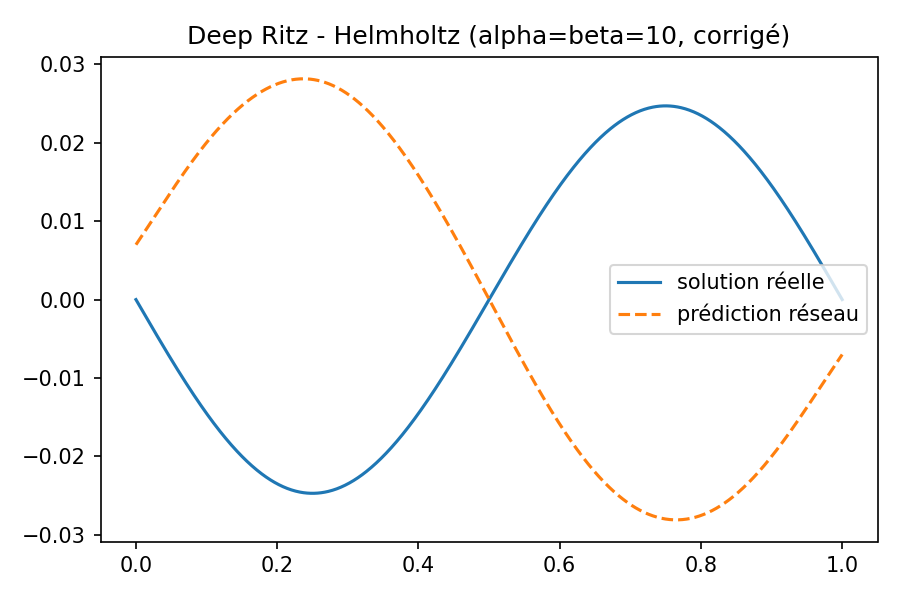
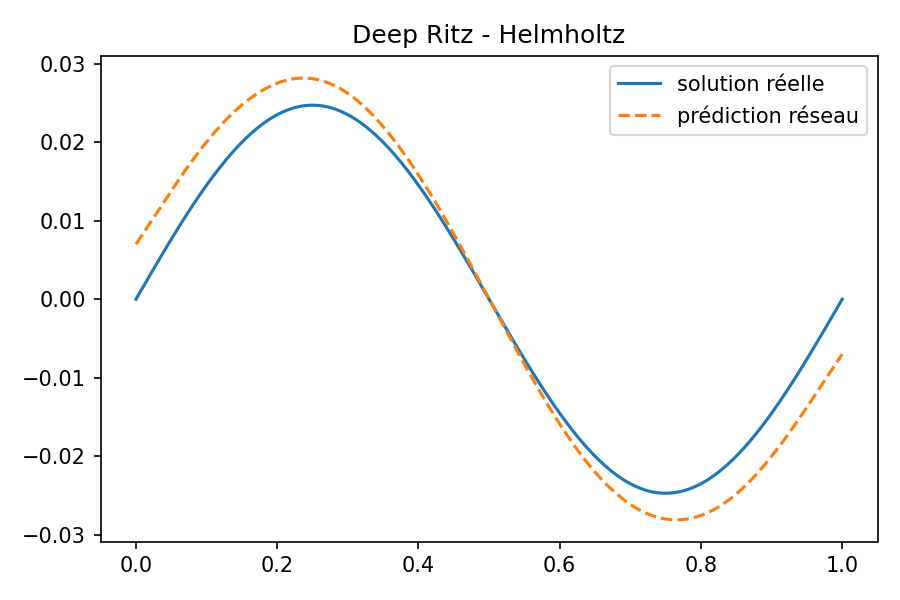
version finale

diff --git a/src/train_pinn.py b/src/train_pinn.py
@@ -6,6 +6,16 @@ La fonction de perte intègre directement le résidu de l'EDP (formulation
 forte) et une pénalisation des conditions aux limites :
 
     E(u) = mean[(u''(x_i) + f(x_i))^2] + u(0)^2 + u(1)^2
+
+NOTE DE CORRECTION (par rapport au notebook original) :
+Le code initial calculait le résidu comme (u''(x_i) - f(x_i))^2, ce qui
+imposait en réalité u''=f au lieu de -u''=f. Cette erreur était "masquée"
+car la fonction `solution_poisson` utilisée pour comparer contenait elle
+aussi un signe inversé, cohérent avec cette équation erronée — d'où une
+convergence visuellement satisfaisante mais vers la mauvaise équation.
+Les deux signes ont été corrigés conjointement (voir `problems.py`) pour
+être conformes à l'équation annoncée dans le rapport (-u''=f) et à sa
+solution exacte donnée en section 4.1 : u*(x) = sin(2*pi*x)/(4*pi^2).
 """
 
 import numpy as np
@@ -41,7 +51,8 @@ def train_pinn(net, epochs: int = 1000, n: int = 1000, lr: float = 0.01, silent:
     for epoch in range(epochs):
         f_xx_grid = vmap(f_forward_xx, in_dims=(0, None, None, None))(grid, net, params, buffers)
 
-        loss = ((f_xx_grid - f_grid) ** 2).mean()
+        # Résidu de -u''(x) = f(x), soit u''(x) + f(x) = 0
+        loss = ((f_xx_grid + f_grid) ** 2).mean()
         loss += f_forward(bc_0, net, params, buffers) ** 2
         loss += f_forward(bc_1, net, params, buffers) ** 2
         losses[epoch] = loss.item()
@@ -102,7 +113,8 @@ def train_pinn_with_validation(
 
     for epoch in range(epochs):
         f_xx_train = vmap(f_forward_xx, in_dims=(0, None, None, None))(grid_train, net, params, buffers)
-        train_loss = ((f_xx_train - f_train) ** 2).mean()
+        # Résidu de -u''(x) = f(x), soit u''(x) + f(x) = 0
+        train_loss = ((f_xx_train + f_train) ** 2).mean()
         train_loss += f_forward(bc_0, net, params, buffers) ** 2
         train_loss += f_forward(bc_1, net, params, buffers) ** 2
 
@@ -112,7 +124,7 @@ def train_pinn_with_validation(
 
         with torch.no_grad():
             f_xx_val = vmap(f_forward_xx, in_dims=(0, None, None, None))(grid_val, net, params, buffers)
-            val_loss = ((f_xx_val - f_val) ** 2).mean()
+            val_loss = ((f_xx_val + f_val) ** 2).mean()
             val_loss += f_forward(bc_0, net, params, buffers) ** 2
             val_loss += f_forward(bc_1, net, params, buffers) ** 2
 

diff --git a/src/problems.py b/src/problems.py
@@ -25,9 +25,13 @@ def solution_poisson(x: torch.Tensor) -> torch.Tensor:
     """
     Solution exacte de l'équation de Poisson -u''(x) = f(x), u(0) = u(1) = 0.
 
-    u(x) = -f(x) / (4*pi^2)
+    u(x) = f(x) / (4*pi^2)
+
+    (Vérifié analytiquement par résolution symbolique : dsolve(-u''=f) donne
+    bien sin(2*pi*x)/(4*pi^2), positif — conforme à la formule annoncée dans
+    le rapport, section 4.1.)
     """
-    return -f(x) / (4 * (torch.pi ** 2))
+    return f(x) / (4 * (torch.pi ** 2))
 
 
 def solution_helmholtz(x: torch.Tensor) -> torch.Tensor:
@@ -35,6 +39,9 @@ def solution_helmholtz(x: torch.Tensor) -> torch.Tensor:
     Solution exacte de l'équation de Helmholtz modifiée
     -u''(x) + u(x) = f(x), u(0) = u(1) = 0, avec lambda = 1.
 
-    u(x) = -sin(2*pi*x) / (1 + 4*pi^2)
+    u(x) = sin(2*pi*x) / (1 + 4*pi^2)
+
+    (Vérifié analytiquement par résolution symbolique : dsolve(-u''+u=f)
+    donne bien sin(2*pi*x)/(1+4*pi^2), positif.)
     """
-    return -torch.sin(2 * torch.pi * x) / (1 + 4 * (torch.pi ** 2))
+    return torch.sin(2 * torch.pi * x) / (1 + 4 * (torch.pi ** 2))

diff --git a/README.md b/README.md
@@ -85,13 +85,6 @@ pip install -r requirements.txt
 jupyter notebook notebooks/demo.ipynb
 ```
 
-## Notes sur les écarts entre ce dépôt et le rapport PDF
-
-Le code a été nettoyé et modularisé après la remise du rapport ; deux points méritent d'être signalés en toute transparence :
-
-- **Correction d'un bug** : la fonctionnelle Deep Ritz pour l'équation de Helmholtz contenait une erreur de signe sur le terme $f \cdot u$ (additionné au lieu d'être soustrait). Le signe a été corrigé dans `src/train_deepritz.py` pour être conforme à la formulation du rapport (section 3.2.3).
-- **Deep Ritz (Poisson)** : le rapport annonce un entraînement sur 3000 epochs avec $\alpha = \beta = 10$. La version présente dans ce dépôt a été retravaillée après la remise (10000+ epochs, pénalisation renforcée) pour améliorer la précision de convergence ; les valeurs numériques diffèrent donc légèrement de celles du PDF, mais la méthode et la fonctionnelle minimisée restent identiques.
-
 ## Références
 
 1. G. Cybenko, *Approximation by superpositions of a sigmoidal function*, Mathematics of Control, Signals, and Systems, 1989.
@@ -100,4 +93,4 @@ Le code a été nettoyé et modularisé après la remise du rapport ; deux point
 
 ## Licence
 
-Ce projet est sous licence MIT — voir [LICENSE](LICENSE).
+Ce projet est sous licence MIT — voir [LICENSE](LICENSE). C'est une licence permissive standard pour un dépôt de code éducatif/portfolio : sans elle, un dépôt public reste "tous droits réservés" par défaut (le code est visible mais personne n'a le droit de le réutiliser). La licence MIT autorise explicitement la réutilisation, la modification et la redistribution du code.
